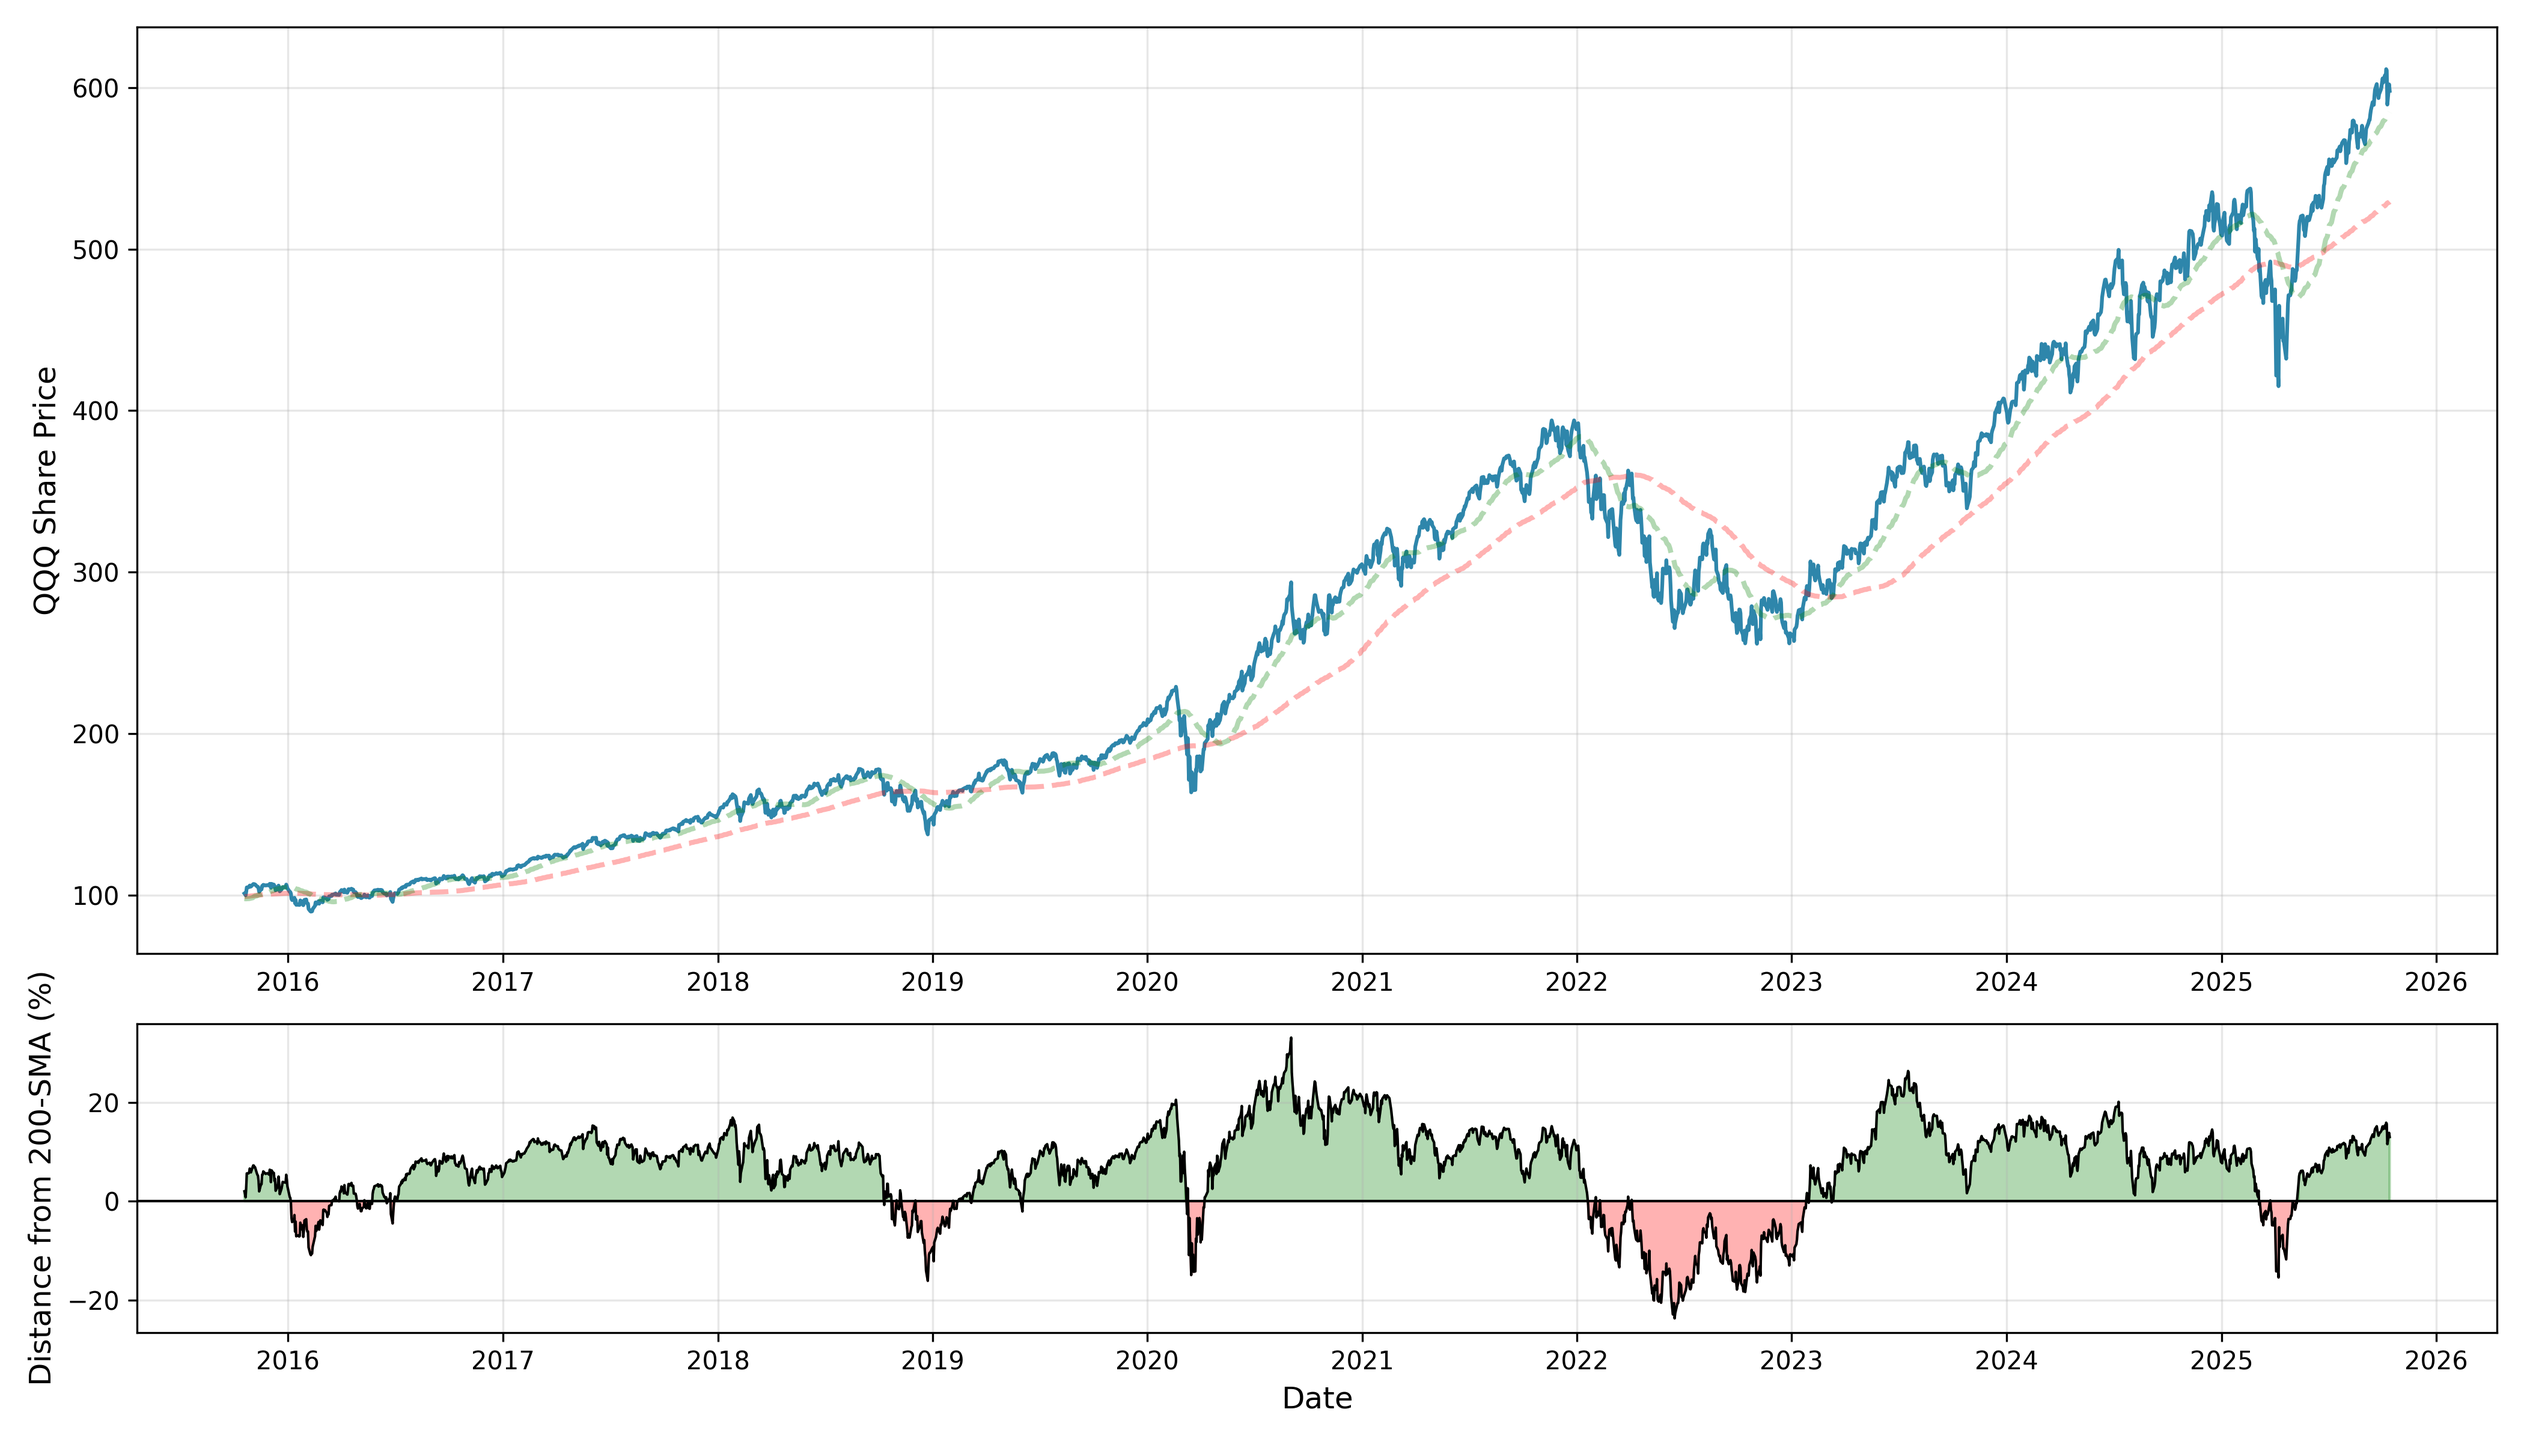
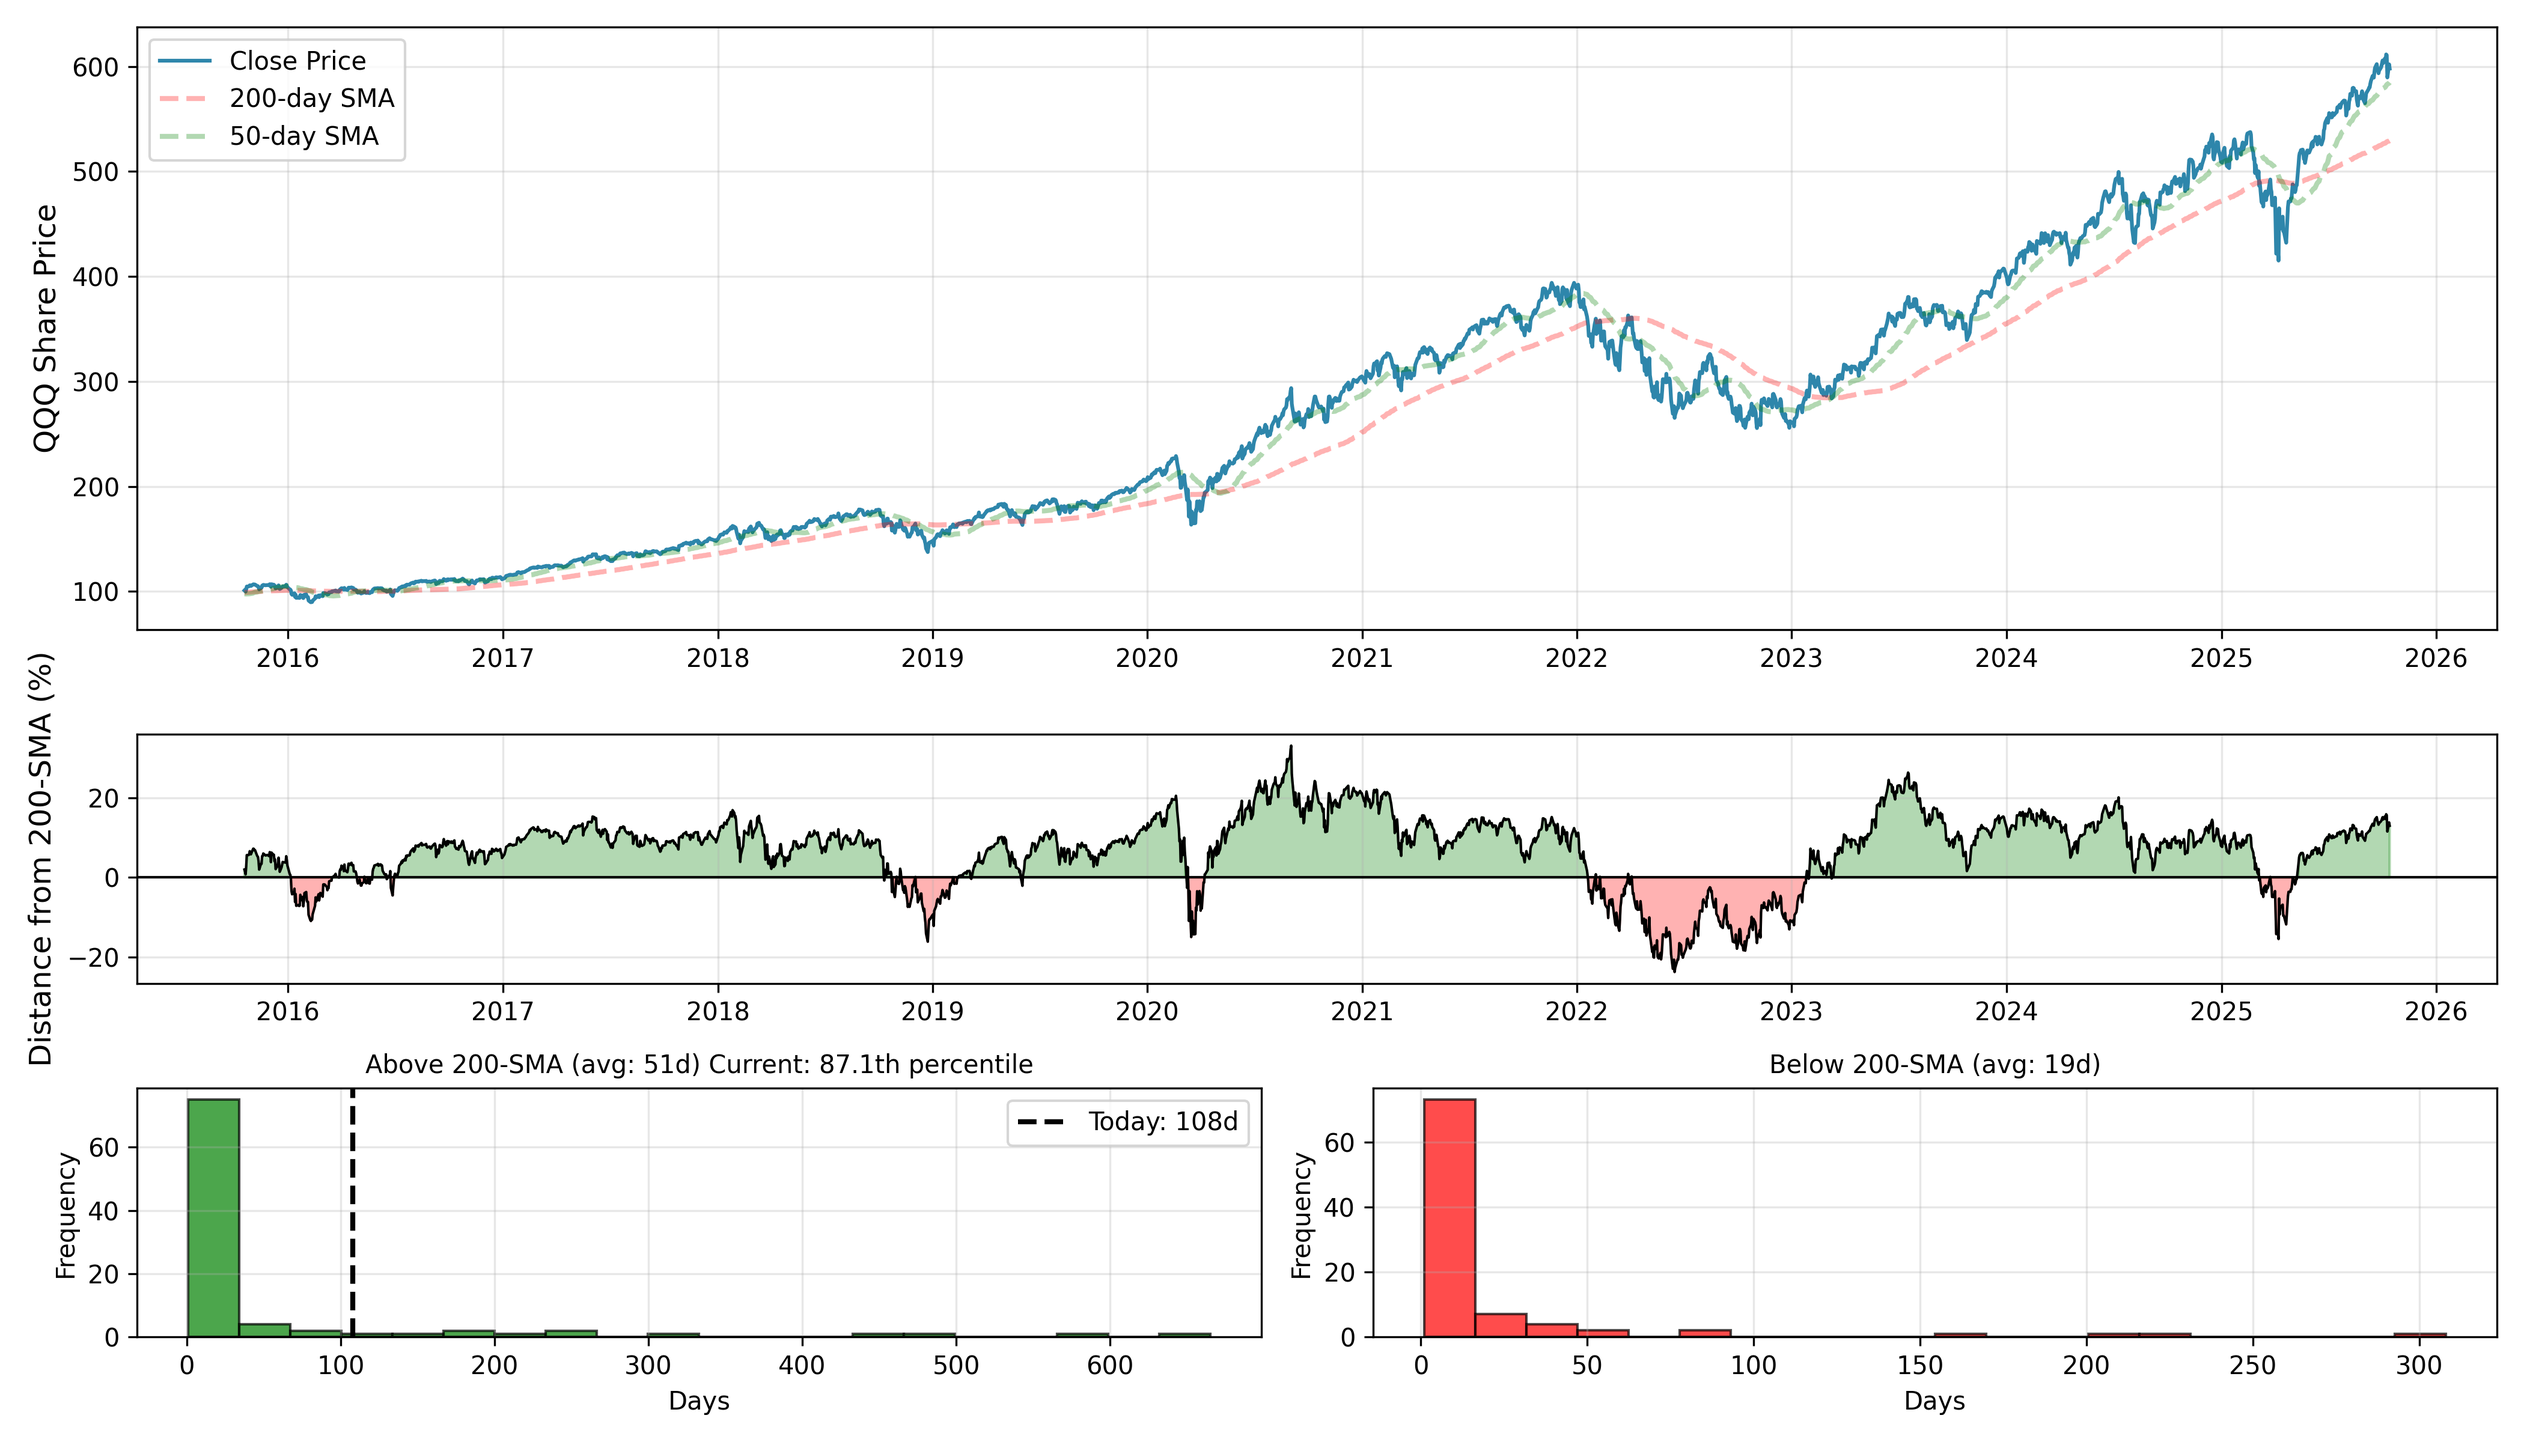
add current run analysis

diff --git a/src/plot.py b/src/plot.py
@@ -1,26 +1,104 @@
 import pandas as pd
 import matplotlib.pyplot as plt
+import numpy as np
 from src.durations import Durations
 
-def plot_stock_data(full_df: pd.DataFrame, plot_df: pd.DataFrame, ticker: str, duration: Durations) -> None:    
-    fig, (ax1, ax2) = plt.subplots(2, 1, figsize=(14, 8), height_ratios=[3, 1])
+def calculate_streaks(df: pd.DataFrame) -> tuple[list, list]:
+    above_sma = df['Close'] > df['SMA_200']
+    above_streaks = []
+    below_streaks = []
+    current_streak = 0
+    current_state = None
+    
+    for is_above in above_sma:
+        if current_state is None:
+            current_state = is_above
+            current_streak = 1
+        elif current_state == is_above:
+            current_streak += 1
+        else:
+            if current_state:
+                above_streaks.append(current_streak)
+            else:
+                below_streaks.append(current_streak)
+            current_state = is_above
+            current_streak = 1
+    
+    if current_state:
+        above_streaks.append(current_streak)
+    else:
+        below_streaks.append(current_streak)
+    
+    return above_streaks, below_streaks
 
-    # Main price chart - use plot_df
+def get_current_streak(df: pd.DataFrame) -> tuple[int, bool]:
+    current_above = df['Close'].iloc[-1] > df['SMA_200'].iloc[-1]
+    current_streak = 1
+    
+    for i in range(len(df) - 2, -1, -1):
+        is_above = df['Close'].iloc[i] > df['SMA_200'].iloc[i]
+        if is_above == current_above:
+            current_streak += 1
+        else:
+            break
+    
+    return current_streak, current_above
+
+def plot_stock_data(full_df: pd.DataFrame, plot_df: pd.DataFrame, ticker: str, duration: Durations) -> None:    
+    fig = plt.figure(figsize=(14, 8))
+    
+    # Main price chart (50%)
+    ax1 = plt.subplot2grid((8, 2), (0, 0), colspan=2, rowspan=4)
     ax1.plot(plot_df.index, plot_df['Close'], label='Close Price', linewidth=1.5, color='#2E86AB')
     ax1.plot(plot_df.index, plot_df['SMA_200'], label='200-day SMA', linewidth=2, color="red", linestyle='--', alpha=0.3)
     ax1.plot(plot_df.index, plot_df['SMA_50'], label='50-day SMA', linewidth=2, color="green", linestyle='--', alpha=0.3)
     ax1.set_ylabel(f'{ticker} Share Price', fontsize=12)
-    ax1.grid(True, alpha=0.3)    
+    ax1.grid(True, alpha=0.3)
+    ax1.legend()
 
-    # Distance from SMA chart - use plot_df
+    # Distance from SMA chart (25%)
+    ax2 = plt.subplot2grid((8, 2), (4, 0), colspan=2, rowspan=2)
     distance = (plot_df['Close'] - plot_df['SMA_200']) / plot_df['SMA_200'] * 100
     ax2.plot(plot_df.index, distance, color='black', linewidth=1)
     ax2.fill_between(plot_df.index, distance, 0, where=(distance > 0), color='green', alpha=0.3)
     ax2.fill_between(plot_df.index, distance, 0, where=(distance <= 0), color='red', alpha=0.3)
     ax2.axhline(y=0, color='black', linestyle='-', linewidth=1)
     ax2.set_ylabel('Distance from 200-SMA (%)', fontsize=12)
-    ax2.set_xlabel('Date', fontsize=12)
     ax2.grid(True, alpha=0.3)
+
+    # Streak histograms - side by side (25%)
+    above_streaks, below_streaks = calculate_streaks(full_df)
+    current_streak, is_above = get_current_streak(full_df)
+    
+    # Calculate percentiles
+    above_percentile = (sum(1 for s in above_streaks if s < current_streak) / len(above_streaks)) * 100 if is_above else 0
+    below_percentile = (sum(1 for s in below_streaks if s < current_streak) / len(below_streaks)) * 100 if not is_above else 0
+    
+    ax3 = plt.subplot2grid((8, 2), (6, 0), rowspan=2)
+    ax3.hist(above_streaks, bins=20, alpha=0.7, color='green', edgecolor='black')
+    title = f'Above 200-SMA (avg: {np.mean(above_streaks):.0f}d)'
+    if is_above:
+        title += f' Current: {above_percentile:.1f}th percentile'
+    ax3.set_title(title, fontsize=10)
+    ax3.set_ylabel('Frequency')
+    ax3.set_xlabel('Days')
+    ax3.grid(True, alpha=0.3)
+    if is_above:
+        ax3.axvline(current_streak, color='black', linestyle='--', linewidth=2, label=f'Today: {current_streak}d')
+        ax3.legend()
+    
+    ax4 = plt.subplot2grid((8, 2), (6, 1), rowspan=2)
+    ax4.hist(below_streaks, bins=20, alpha=0.7, color='red', edgecolor='black')
+    title = f'Below 200-SMA (avg: {np.mean(below_streaks):.0f}d)'
+    if not is_above:
+        title += f' Current: {below_percentile:.1f}th percentile'
+    ax4.set_title(title, fontsize=10)
+    ax4.set_ylabel('Frequency')
+    ax4.set_xlabel('Days')
+    ax4.grid(True, alpha=0.3)
+    if not is_above:
+        ax4.axvline(current_streak, color='black', linestyle='--', linewidth=2, label=f'Today: {current_streak}d')
+        ax4.legend()
 
     plt.tight_layout()
     plt.savefig(f'plots/{ticker.lower()}_{duration.name.lower()}_chart.png', dpi=300)

diff --git a/src/streak_analysis.py b/src/streak_analysis.py
@@ -1,0 +1,92 @@
+import pandas as pd
+import matplotlib.pyplot as plt
+import numpy as np
+
+def calculate_streaks(df: pd.DataFrame) -> tuple[list, list]:
+    """Calculate consecutive streaks above and below 200-day SMA"""
+    above_sma = df['Close'] > df['SMA_200']
+    
+    above_streaks = []
+    below_streaks = []
+    current_streak = 0
+    current_state = None
+    
+    for is_above in above_sma:
+        if current_state is None:
+            current_state = is_above
+            current_streak = 1
+        elif current_state == is_above:
+            current_streak += 1
+        else:
+            if current_state:
+                above_streaks.append(current_streak)
+            else:
+                below_streaks.append(current_streak)
+            current_state = is_above
+            current_streak = 1
+    
+    # Add final streak
+    if current_state:
+        above_streaks.append(current_streak)
+    else:
+        below_streaks.append(current_streak)
+    
+    return above_streaks, below_streaks
+
+def plot_streak_histogram(above_streaks: list, below_streaks: list, ticker: str) -> None:
+    """Plot histogram of streaks above and below 200-day SMA"""
+    fig, (ax1, ax2) = plt.subplots(1, 2, figsize=(14, 6))
+    
+    # Above SMA streaks
+    ax1.hist(above_streaks, bins=20, alpha=0.7, color='green', edgecolor='black')
+    ax1.set_title(f'{ticker} - Days Above 200-day SMA')
+    ax1.set_xlabel('Consecutive Days')
+    ax1.set_ylabel('Frequency')
+    ax1.grid(True, alpha=0.3)
+    ax1.axvline(np.mean(above_streaks), color='red', linestyle='--', label=f'Mean: {np.mean(above_streaks):.1f}')
+    ax1.legend()
+    
+    # Below SMA streaks
+    ax2.hist(below_streaks, bins=20, alpha=0.7, color='red', edgecolor='black')
+    ax2.set_title(f'{ticker} - Days Below 200-day SMA')
+    ax2.set_xlabel('Consecutive Days')
+    ax2.set_ylabel('Frequency')
+    ax2.grid(True, alpha=0.3)
+    ax2.axvline(np.mean(below_streaks), color='green', linestyle='--', label=f'Mean: {np.mean(below_streaks):.1f}')
+    ax2.legend()
+    
+    plt.tight_layout()
+    plt.savefig(f'plots/{ticker.lower()}_streak_histogram.png', dpi=300)
+    plt.show()
+
+def analyze_current_streak(df: pd.DataFrame, ticker: str) -> None:
+    """Analyze the current streak and compare to historical data"""
+    above_streaks, below_streaks = calculate_streaks(df)
+    
+    # Determine current streak
+    current_above = df['Close'].iloc[-1] > df['SMA_200'].iloc[-1]
+    current_streak = 1
+    
+    for i in range(len(df) - 2, -1, -1):
+        is_above = df['Close'].iloc[i] > df['SMA_200'].iloc[i]
+        if is_above == current_above:
+            current_streak += 1
+        else:
+            break
+    
+    if current_above:
+        all_streaks = above_streaks
+        streak_type = "above"
+    else:
+        all_streaks = below_streaks
+        streak_type = "below"
+    
+    percentile = (sum(1 for s in all_streaks if s < current_streak) / len(all_streaks)) * 100
+    
+    print(f"\n{ticker} Current Streak Analysis:")
+    print(f"Currently {current_streak} days {streak_type} 200-day SMA")
+    print(f"This is longer than {percentile:.1f}% of all {streak_type} streaks")
+    print(f"Average {streak_type} streak: {np.mean(all_streaks):.1f} days")
+    print(f"Longest {streak_type} streak: {max(all_streaks)} days")
+    
+    plot_streak_histogram(above_streaks, below_streaks, ticker)
